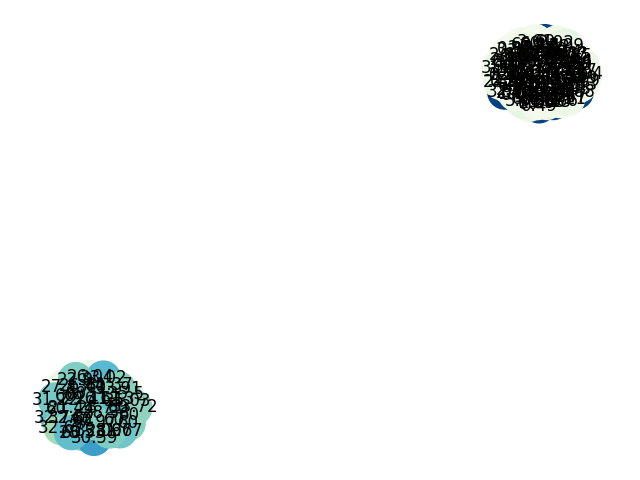
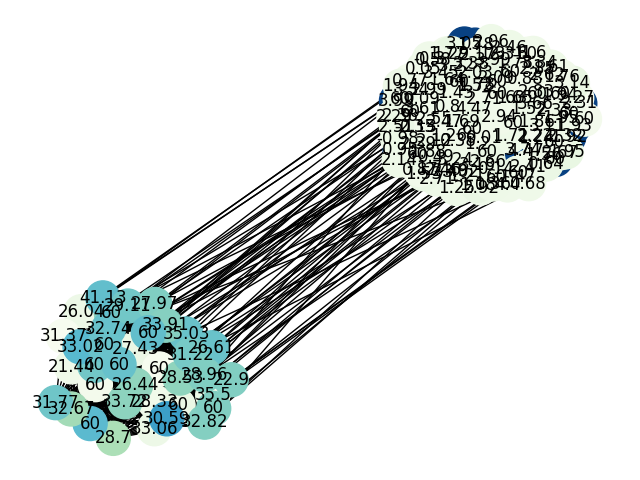
fixed seed

Changed region(s): [[0.0312, 0.0312, 0.9375, 0.9688]]

diff --git a/phase1.py b/phase1.py
@@ -51,14 +51,20 @@ DEALBREAKER = 0  # Flag to indicate that something is wrong:
 
 plotTitle = ''
 if DEALBREAKER == 2:
+    random.seed(1)
+    np.random.seed(1)
     f = [6, 1]
 else:
+    random.seed(8)
+    np.random.seed(8)
     f = [6, 3]
 
 n1 = 2 * f[0] + 2 + 1 + 1  # It respects d1 >= 2f + 3
 n2 = 2 * f[1] + 2 + 1 + 1 + 2  # It respects d2 >= 2f + 3 (2f + k + 1 + 1 since this is the requirement for the degree)
 
 if not DEALBREAKER:
+    random.seed(10)
+    np.random.seed(10)
     f = [20, 10]
     n1 = 6 * f[0] + 2 + 1 + 1  # It respects d1 >= 2f + 3
     n2 = 3 * f[1] + 2 + 1 + 1 + 2  # It respects d2 >= 2f + 3 (2f + k + 1 + 1 since this is the requirement for the degree)
@@ -126,41 +132,40 @@ strikes = np.array([nodes, tmp])
 alpha = 0.6
 
 WRITEIDX = 1
-if WRITEIDX:
-    fn_indices = random.sample(nodes_comm[0], f[0]) + random.sample(nodes_comm[1], f[1])
-    fn_indicesDf = pd.DataFrame(fn_indices)
-    fn_indicesDf.to_csv('./fnIndices.csv', index=False)
+fn_indices = random.sample(nodes_comm[0], f[0]) + random.sample(nodes_comm[1], f[1])
+# fn_indicesDf = pd.DataFrame(fn_indices)
+# fn_indicesDf.to_csv('./fnIndices.csv', index=False)
 
-    # Add k edges per agent to connect the two communities
-    try:
-        # Establish the connections among two communities
-        edgesList = []
-        for i in nodes_comm[1]:
-            temp = random.sample(nodes_comm[0], k)
-            for t in temp:
-                if strikes[1, t] > 0 and strikes[
-                    1, i] > 0:  # Add edge only if there have not been added 2 edges to the node already
-                    edge_placed = np.random.binomial(1, p_edge, 1)[0]
-                    if edge_placed:
-                        # G.add_edge(i, t)
-                        edgesList.append((i, t))
-                        strikes[1, i] = strikes[1, i] - 1
-                        strikes[1, t] = strikes[1, t] - 1
-                        # Check that no edge is selected twice
-                        if strikes[1, i] < 0 or strikes[1, t] < 0:
-                            raise Exception(f'More than k edges departing from {i} or possibly from {t}')
-    except Exception as inst:
-        print(inst.args)
-        sys.exit()
+# Add k edges per agent to connect the two communities
+try:
+    # Establish the connections among two communities
+    edgesList = []
+    for i in nodes_comm[1]:
+        temp = random.sample(nodes_comm[0], k)
+        for t in temp:
+            if strikes[1, t] > 0 and strikes[
+                1, i] > 0:  # Add edge only if there have not been added 2 edges to the node already
+                edge_placed = np.random.binomial(1, p_edge, 1)[0]
+                if edge_placed:
+                    G.add_edge(i, t)
+                    # edgesList.append((i, t))
+                    strikes[1, i] = strikes[1, i] - 1
+                    strikes[1, t] = strikes[1, t] - 1
+                    # Check that no edge is selected twice
+                    if strikes[1, i] < 0 or strikes[1, t] < 0:
+                        raise Exception(f'More than k edges departing from {i} or possibly from {t}')
+except Exception as inst:
+    print(inst.args)
+    sys.exit()
 
-    edgesListDf = pd.DataFrame(edgesList)
-    edgesListDf.to_csv('./edgesList.csv', index=False)
-else:
-    fn_indices = pd.read_csv('./fnIndices.csv')
-    fn_indices = list(fn_indices.iloc[:, 0])
-    edgesList = pd.read_csv('./edgesList.csv')
-    for e in range(len(edgesList)):
-        G.add_edge(edgesList.iloc[e, 0], edgesList.iloc[e, 1])
+# edgesListDf = pd.DataFrame(edgesList)
+# edgesListDf.to_csv('./edgesList.csv', index=False)
+# else:
+#     fn_indices = pd.read_csv('./fnIndices.csv')
+#     fn_indices = list(fn_indices.iloc[:, 0])
+#     edgesList = pd.read_csv('./edgesList.csv')
+#     for e in range(len(edgesList)):
+#         G.add_edge(edgesList.iloc[e, 0], edgesList.iloc[e, 1])
 
 print(f'fn indices: {fn_indices}')
 for j in range(c):
@@ -168,30 +173,29 @@ for j in range(c):
 fn_values = {i: badVal for i in fn_indices}
 ln_values = {i: 0 for i in ln_indices}
 
-if WRITEIDX:
-    # Assign the values to the legitimate nodes
-    tmp = []
-    for j in range(c):
-        tmp = tmp + list(np.random.normal(mu[j], sigma[j], size=len(nodes_comm[j]) - f[j]))
-    tmp = [round(i, 4) for i in tmp]
-    print(f'The values to assign: {tmp}')
-    for i in ln_indices:
-        ln_values[i] = tmp.pop(0)
+# Assign the values to the legitimate nodes
+tmp = []
+for j in range(c):
+    tmp = tmp + list(np.random.normal(mu[j], sigma[j], size=len(nodes_comm[j]) - f[j]))
+tmp = [round(i, 4) for i in tmp]
+print(f'The values to assign: {tmp}')
+for i in ln_indices:
+    ln_values[i] = tmp.pop(0)
 
-    values = fn_values | ln_values
-    valuesDf = pd.DataFrame(values.items(), columns=['Node', 'Value'])
-    valuesDf = valuesDf.explode('Value')
-    valuesDf.to_csv('./values.csv', index=False)
-else:
-    valuesDf = pd.read_csv('./values.csv')
-    values = {}
-    tmpNode = list(valuesDf['Node'])
-    tmpVal = list(valuesDf['Value'])
-    for i in range(len(tmpNode)):
-        values[tmpNode[i]] = tmpVal[i]
-    values_comm = []
-    for i in range(c):
-        values_comm.append({j: values[j] for j in nodes_comm[i]})
+values = fn_values | ln_values
+valuesDf = pd.DataFrame(values.items(), columns=['Node', 'Value'])
+valuesDf = valuesDf.explode('Value')
+# valuesDf.to_csv('./values.csv', index=False)
+# else:
+#     valuesDf = pd.read_csv('./values.csv')
+#     values = {}
+#     tmpNode = list(valuesDf['Node'])
+#     tmpVal = list(valuesDf['Value'])
+#     for i in range(len(tmpNode)):
+#         values[tmpNode[i]] = tmpVal[i]
+values_comm = []
+for i in range(c):
+    values_comm.append({j: values[j] for j in nodes_comm[i]})
 
 
 def display_graph(mG, vs, mString):
